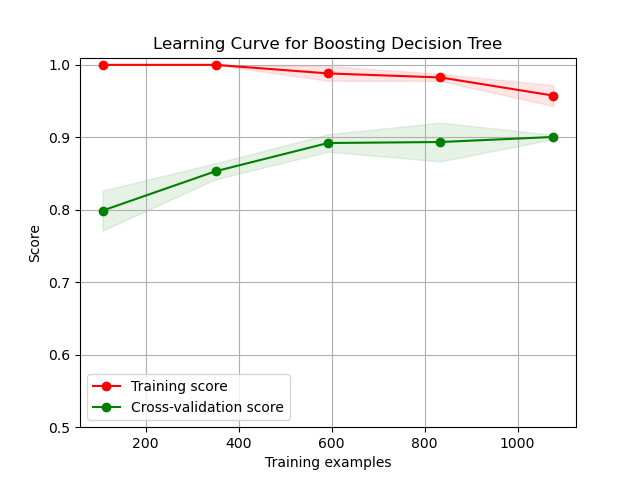
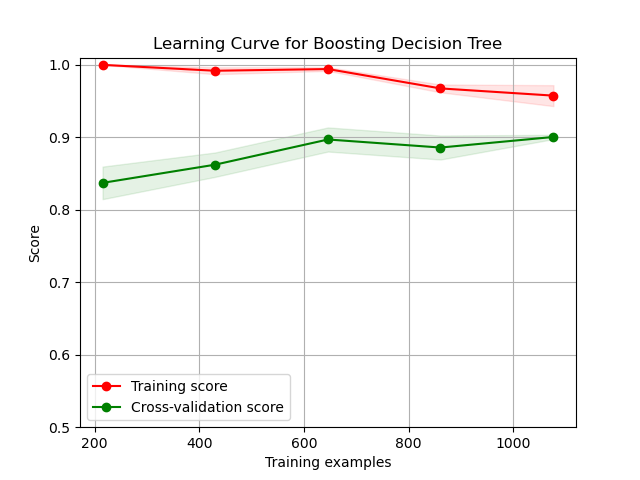
pr1 update figures

diff --git a/pr1/experiment3.py b/pr1/experiment3.py
@@ -1,0 +1,68 @@
+# running experiments
+import numpy as np # linear algebra
+import struct
+from array import array
+from os.path  import join
+import DT as dt
+
+#
+# MNIST Data Loader Class
+#
+class MnistDataloader(object):
+    def __init__(self, training_images_filepath,training_labels_filepath,
+                 test_images_filepath, test_labels_filepath):
+        self.training_images_filepath = training_images_filepath
+        self.training_labels_filepath = training_labels_filepath
+        self.test_images_filepath = test_images_filepath
+        self.test_labels_filepath = test_labels_filepath
+    
+    def read_images_labels(self, images_filepath, labels_filepath):        
+        labels = []
+        with open(labels_filepath, 'rb') as file:
+            magic, size = struct.unpack(">II", file.read(8))
+            if magic != 2049:
+                raise ValueError('Magic number mismatch, expected 2049, got {}'.format(magic))
+            labels = array("B", file.read())        
+        
+        with open(images_filepath, 'rb') as file:
+            magic, size, rows, cols = struct.unpack(">IIII", file.read(16))
+            if magic != 2051:
+                raise ValueError('Magic number mismatch, expected 2051, got {}'.format(magic))
+            image_data = array("B", file.read())        
+        images = []
+        for i in range(size):
+            images.append([0] * rows * cols)
+        for i in range(size):
+            img = np.array(image_data[i * rows * cols:(i + 1) * rows * cols])
+            img = img.reshape(28, 28)
+            images[i][:] = img            
+        
+        return images, labels
+            
+    def load_data(self):
+        x_train, y_train = self.read_images_labels(self.training_images_filepath, self.training_labels_filepath)
+        x_test, y_test = self.read_images_labels(self.test_images_filepath, self.test_labels_filepath)
+        return (x_train, y_train),(x_test, y_test)  
+
+
+if __name__ == '__main__':
+    #
+    # Set file paths based on added MNIST Datasets
+    #
+    input_path = 'data/mnist'
+    training_images_filepath = join(input_path, 'train-images-idx3-ubyte/train-images-idx3-ubyte')
+    training_labels_filepath = join(input_path, 'train-labels-idx1-ubyte/train-labels-idx1-ubyte')
+    test_images_filepath = join(input_path, 't10k-images-idx3-ubyte/t10k-images-idx3-ubyte')
+    test_labels_filepath = join(input_path, 't10k-labels-idx1-ubyte/t10k-labels-idx1-ubyte')
+
+    mnist_dataloader = MnistDataloader(training_images_filepath, training_labels_filepath, test_images_filepath, test_labels_filepath)
+    (x_train, y_train), (x_test, y_test) = mnist_dataloader.load_data()
+    x_train = np.array(x_train) / 255
+    x_test = np.array(x_test) / 255
+    x_train = np.reshape(x_train, (60000, 784))
+    x_test = np.reshape(x_test, (10000, 784))
+    print('x_train: ' + str(np.shape(x_train)))
+    print('y_train: ' + str(np.shape(y_train)))
+    dtlearner = dt.DecisionTree(dataset='mnist', verbose=True)
+    dtlearner.train(x_train, y_train)
+    dtlearner.query(x_test, y_test)

diff --git a/pr1/DT.py b/pr1/DT.py
@@ -5,6 +5,7 @@ from sklearn.metrics import accuracy_score
 from sklearn.model_selection import GridSearchCV
 from matplotlib import pyplot as plt
 import util
+import time
 
 
 class DecisionTree(object):
@@ -28,7 +29,6 @@ class DecisionTree(object):
         print("Decision Tree Accuracy on the Train set: ", clf_dt.score(X_train, y_train))
 
         params = {'max_depth': np.arange(1, 20),
-         'min_samples_leaf': np.arange(1, 20),
          'ccp_alpha': np.linspace(0, 0.035, 20)}
 
         gcv = GridSearchCV(estimator=clf_dt,param_grid=params, cv=4)
@@ -38,13 +38,14 @@ class DecisionTree(object):
 
 
         if self.verbose:
-            util.plot_learning_curve(self.dataset, estimator=best_dt, X_train=X_train, y_train=y_train, param_range=np.linspace(0.1,1,5), title="Learning Curve for Decision Tree")
+            util.plot_learning_curve(self.dataset, estimator=best_dt, X_train=X_train, y_train=y_train, param_range=np.linspace(0.2,1,5, endpoint=True), title="Learning Curve for Decision Tree")
             util.plot_validation_curve(self.dataset, best_dt, X_train, y_train, title="Validation Curve for Decision Tree over max_depth", xlabel='max_depth', p_name="max_depth", p_range=np.arange(1, 30, 2), cv=4)
-            util.plot_validation_curve(self.dataset, best_dt, X_train, y_train, title="Validation Curve for Decision Tree over ccp_alpha", xlabel='ccp_alpha', p_name="ccp_alpha", p_range=np.linspace(0, 0.035, 10),  cv=4)
-            util.plot_validation_curve(self.dataset, best_dt, X_train, y_train, title="Validation Curve for Decision Tree over min_samples_leaf", xlabel='min_samples_leaf', p_name="min_samples_leaf", p_range=np.arange(1, 100, 10), cv=4)
+            util.plot_validation_curve(self.dataset, best_dt, X_train, y_train, title="Validation Curve for Decision Tree over ccp_alpha", xlabel='ccp_alpha', p_name="ccp_alpha", p_range=np.linspace(0, 0.035, 10),  cv=4)        
         
+        start = time.time()        
         best_dt.fit(X_train, y_train)
-        print("At depth:", best_dt.tree_.max_depth)
+        end = time.time()
+        print("Decision Tree Training time:", end - start)
         print("Best Decision Tree Accuracy on the Train set: ", best_dt.score(X_train, y_train))
         self.clf = best_dt
 

diff --git a/pr1/Boosting.py b/pr1/Boosting.py
@@ -6,6 +6,7 @@ from sklearn.ensemble import AdaBoostClassifier
 from sklearn.metrics import accuracy_score
 from sklearn.model_selection import GridSearchCV
 import util
+import time
 
 
 class BoostClassifier(object):
@@ -32,11 +33,14 @@ class BoostClassifier(object):
         
 
         if self.verbose:
-            util.plot_learning_curve(self.dataset, estimator=best_dt, X_train=X_train, y_train=y_train, param_range=np.linspace(0.1,1,5), title="Learning Curve for Boosting Decision Tree")
+            util.plot_learning_curve(self.dataset, estimator=best_dt, X_train=X_train, y_train=y_train, param_range=np.linspace(0.2,1,5, endpoint=True), title="Learning Curve for Boosting Decision Tree")
             util.plot_validation_curve(self.dataset, best_dt, X_train, y_train, title="Validation Curve for Boosting Decision Tree over n_estimators", xlabel='n_estimators', p_name="n_estimators", p_range=np.arange(1, 200, 20), cv=4)
             util.plot_validation_curve(self.dataset, best_dt, X_train, y_train, title="Validation Curve for Boosting Decision Tree over learning_rate", xlabel='learning_rate', p_name="learning_rate", p_range=np.logspace(-3, 0, 5), cv=4, log=True)
 
+        start = time.time()
         best_dt.fit(X_train, y_train)
+        end = time.time()
+        print("Boost Decision Tree Training time:", end - start)
         print("Boost Decision Tree Accuracy on the Train set: ", best_dt.score(X_train, y_train))
         self.clf = best_dt
 

diff --git a/pr1/KNN.py b/pr1/KNN.py
@@ -5,6 +5,7 @@ from sklearn.metrics import accuracy_score
 from sklearn.metrics import confusion_matrix
 from sklearn.model_selection import GridSearchCV
 import util
+import time
 
 
 class KNeareatNeighbor(object):
@@ -34,11 +35,14 @@ class KNeareatNeighbor(object):
         print("Best parameters:", grid_search.best_params_)
 
         if self.verbose:
-            util.plot_learning_curve(self.dataset, estimator=best_knn, X_train=X_train, y_train=y_train, param_range=np.linspace(0.1,1,5), title="Learning Curve for KNN")
+            util.plot_learning_curve(self.dataset, estimator=best_knn, X_train=X_train, y_train=y_train, param_range=np.linspace(0.2,1,5, endpoint=True), title="Learning Curve for KNN")
             util.plot_validation_curve(self.dataset, best_knn, X_train, y_train, title="Validation Curve for KNN over n_neighbors", xlabel='n_neighbors', p_name="n_neighbors", p_range=np.arange(1, 30, 2), cv=4)
             util.plot_validation_curve(self.dataset, best_knn, X_train, y_train, title="Validation Curve for KNN over weights", xlabel='weights', p_name="weights", p_range=['uniform', 'distance'], cv=4)
         
+        start = time.time()
         best_knn.fit(X_train, y_train)
+        end = time.time()
+        print("KNN Training time:", end - start)
         print("Best KNN Accuracy on the Train set: ", best_knn.score(X_train, y_train))
         self.clf = best_knn
 

diff --git a/pr1/NN.py b/pr1/NN.py
@@ -6,6 +6,7 @@ from sklearn.metrics import confusion_matrix
 from sklearn.model_selection import GridSearchCV
 from matplotlib import pyplot as plt
 import util
+import time
 
 
 class NeuralNetwork(object):
@@ -35,10 +36,14 @@ class NeuralNetwork(object):
         print("Best parameters:", grid_search.best_params_)
 
         if self.verbose:
-            util.plot_learning_curve(self.dataset, best_nn, X_train, y_train, np.linspace(.1, 1.0, 5), title="Learning Curve for NN")
+            util.plot_learning_curve(self.dataset, best_nn, X_train, y_train, np.linspace(0.2,1,5, endpoint=True), title="Learning Curve for NN")
             util.plot_validation_curve(self.dataset, best_nn, X_train, y_train, title="Validation Curve for Neural Network over hidden_layer_sizes", xlabel='hidden_layer_sizes', p_name="hidden_layer_sizes", p_range=np.arange(1, 30), cv=4)
             util.plot_validation_curve(self.dataset, best_nn, X_train, y_train, title="Validation Curve for Neural Network over activation", xlabel='activation', p_name="activation", p_range=['identity', 'logistic', 'tanh', 'relu'], cv=4)
+        
+        start = time.time()
         best_nn.fit(X_train, y_train)
+        end = time.time()
+        print("NN Training time:", end - start)
         print("Best NN Accuracy on the Train set: ", best_nn.score(X_train, y_train))
         self.clf = best_nn
 

diff --git a/pr1/SVM.py b/pr1/SVM.py
@@ -10,6 +10,7 @@ from sklearn.model_selection import learning_curve
 from sklearn.model_selection import GridSearchCV
 from matplotlib import pyplot as plt
 import util
+import time
 
 
 class SupportVectorMachine(object):
@@ -41,11 +42,14 @@ class SupportVectorMachine(object):
 
 
         if self.verbose:
-            util.plot_learning_curve(self.dataset, best_svm, X_train, y_train, np.linspace(.1, 1.0, 5), title="Learning Curve for SVM")
+            util.plot_learning_curve(self.dataset, best_svm, X_train, y_train, np.linspace(0.2,1,5, endpoint=True), title="Learning Curve for SVM")
             util.plot_validation_curve(self.dataset, best_svm, X_train, y_train, title="Validation Curve for SVM over C", xlabel='C', p_name="C", p_range=np.logspace(-5, 5, 10), cv=4, log = True)
             util.plot_validation_curve(self.dataset, best_svm, X_train, y_train, title="Validation Curve for SVM over kernel", xlabel='kernel', p_name="kernel", p_range=['linear', 'poly', 'rbf', 'sigmoid'], cv=4)
 
+        start = time.time()
         best_svm.fit(X_train, y_train)
+        end = time.time()
+        print("SVM Training time:", end - start)
         print("Best SVM Accuracy on the Train set: ", best_svm.score(X_train, y_train))
         self.clf = best_svm
 
